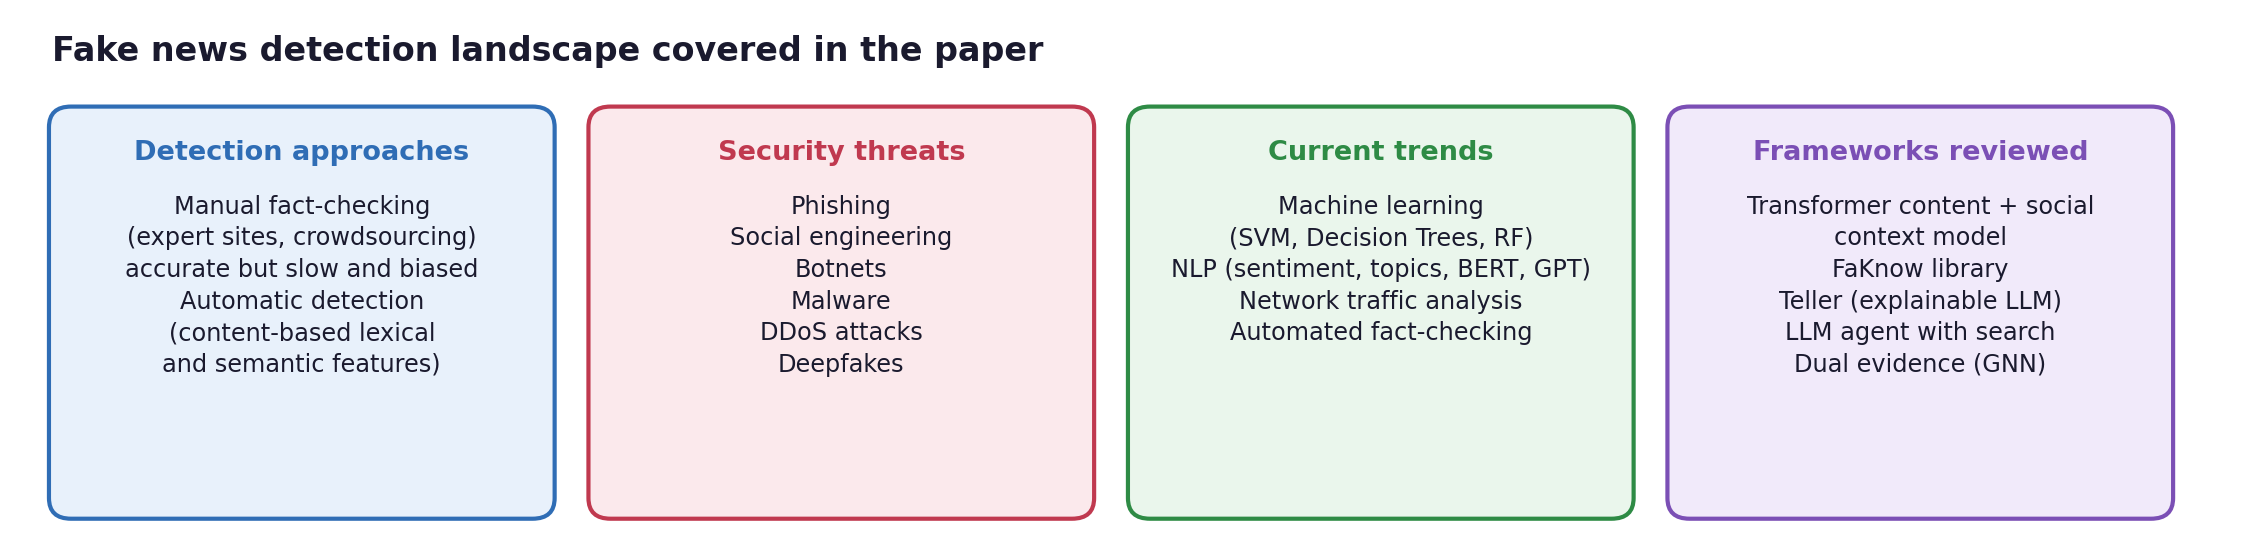
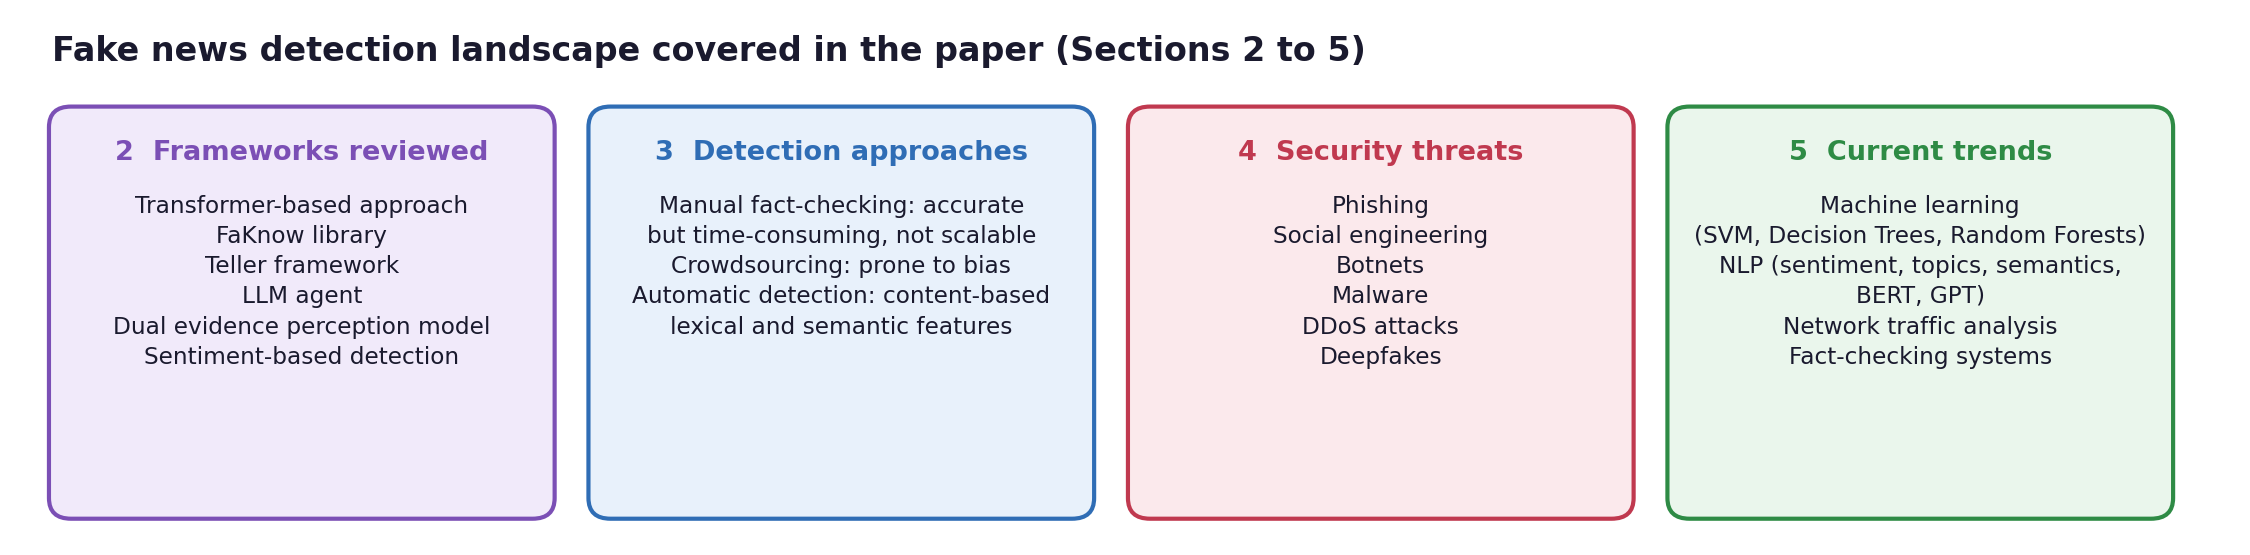
Align README and diagrams strictly with the paper (Table I, Table II, section references)

diff --git a/README.md b/README.md
@@ -21,41 +21,47 @@ Advanced Topics in Computational Text and Media Science (NLP Seminar) · Univers
 
 ## Overview
 
-False information spreads faster than it can be checked, and it harms both social trust and cybersecurity. This
-paper reviews how fake news detection has developed, from manual fact-checking to transformer models and
-LLM agents that consult external knowledge. It also examines how cyber threats such as phishing, botnets and
-deepfakes are used to spread misinformation.
+The widespread dissemination of false news presents substantial difficulties to both social trust and
+cybersecurity (Abstract). This paper analyses current trends and methods in fake news identification, with an
+emphasis on automated systems that use machine learning and NLP. It investigates transformer-based models,
+domain-specific frameworks such as FaKnow, and LLM agents that combine external knowledge sources to improve
+detection accuracy. It also examines the limitations of manual fact-checking and the role of cyber threats such
+as phishing, botnets and deepfakes (Sections 2 to 5).
 
-Building on the review, the paper proposes a **propaganda-aware detection methodology**: a model trained on data
-enriched with propaganda techniques, supported by dedicated sub-models for emotional language and logical
-fallacies.
+Building on the review, the paper presents a methodology for a fake news detection model that **recognises
+propaganda strategies**, trained on a dataset enriched with AI-generated propaganda and supported by sub-models
+for emotion detection, fallacy recognition and translation bias identification (Section 6).
 
-> **Main finding:** combining machine learning, NLP and network analysis is the most promising way to fight the
-> spread of misinformation.
+> **Finding (Abstract, Conclusion):** combining machine learning, NLP and network analysis is a promising
+> approach to fighting the spread of misinformation.
 
 ## What the paper covers
 
 ![Landscape](assets/landscape.png)
 
-| Section | Content |
+| Paper section | Content |
 |---|---|
-| **Literature review** | Transformer-based detection with content and social context, the FaKnow library, the Teller framework, an LLM agent for fake news detection, classical ML comparisons, dual-evidence graph models and sentiment-aware detection |
-| **Detection approaches** | Manual fact-checking (expert websites, crowdsourcing) versus automatic content-based detection |
-| **Security threats** | Phishing, social engineering, botnets, malware, DDoS attacks and deepfakes as channels for misinformation |
-| **Current trends** | Machine learning classifiers, NLP methods (sentiment, topic modelling, BERT, GPT), network traffic analysis and automated fact-checking |
-| **Proposed method** | An end-to-end, propaganda-aware pipeline from problem definition to model refinement |
+| **2. Literature review** | Transformer-based detection with content and social context, the Teller framework, the FaKnow library, an LLM agent for fake news detection, a comparison of classical ML models, a dual evidence perception model and sentiment-based detection |
+| **3. Approaches** | Manual fact-checking (fact-checking websites, crowdsourcing) versus automatic content-based detection using lexical and semantic features |
+| **4. Security threats** | Phishing, social engineering, botnets, malware, DDoS attacks and deepfakes as ways misleading information is spread |
+| **5. Current trends** | Machine learning (SVM, Decision Trees, Random Forests), NLP (sentiment analysis, topic modelling, semantic analysis, BERT, GPT), network traffic analysis and automated fact-checking systems |
+| **6. Proposed method** | A six-stage pipeline from problem definition to model refinement (Figure 1) |
 
 ## Related work at a glance
 
-| Work | Approach | Key features | Data | Finding |
+Reproduced from Table I of the paper; reference numbers follow the paper's bibliography.
+
+| Work | Approach | Key features | Dataset | Findings |
 |---|---|---|---|---|
-| Raza & Ding (2022) | Transformer-based detection | Content and social context analysis | Online news datasets | Automated methods scale where manual fact-checking cannot |
-| **FaKnow** (Zhu et al., 2024) | Unified library | Many models and datasets on a PyTorch backend | Fake news benchmarks | Makes research faster and reproducible |
-| **Teller** (Liu et al., 2024) | Explainable, generalisable detection | Logic templates combined with LLMs | News datasets | Transparent, interpretable verdicts |
-| Prabha et al. (2024) | Classical ML comparison | Logistic Regression, Random Forest, Decision Tree | Benchmark datasets | Decision Tree most accurate; data quality is decisive |
-| Dual evidence perception | Graph neural networks + semantics | Structural and semantic evidence | News and social media data | Fixes methods that ignore semantic content |
-| Sentiment-based detection | Sentiment analysis | Emotional tone of content | ISOT, LIAR | Sentiment features raise accuracy |
-| **LLM agent** (Li et al., 2024) | LLM agent | Expert workflow, domain knowledge, web search | Snopes, PolitiFact, GossipCop | External search improves detection |
+| Transformer-based approach [14] | Transformer-based automated detection | Integrates social context and content analysis | Various online news datasets | Draws attention to the shortcomings of manual fact-checking and encourages the scalability of automated techniques |
+| FaKnow [15] | Unified library structure | Several models, datasets and a PyTorch backend | Various fake news datasets | Increases the efficiency and repeatability of fake news research |
+| Teller framework [9] | Explainable and generalisable detection | Logic templates and LLM integration | Various news datasets | Delivers clear and understandable detection results |
+| Comparative analysis (AIP) [13] | Machine learning models | Logistic regression, random forests, decision trees | Various benchmark datasets | Decision Tree classifier is the most accurate; highlights the importance of high-quality datasets |
+| Dual evidence perception model [14] | Graph neural networks and semantic analysis | Combines evidence from structure and semantics | News datasets, social media data | Addresses approaches that ignore semantic content |
+| Sentiment analysis-based detection [14] | Integration of sentiment analysis | Content-based identification and analysis of emotional tone | ISOT, LIAR | Sentiment analysis increases detection accuracy |
+| Content and social context-based detection [14] | Content and social context features | Social interaction and style features | Various news datasets | Highlights issues with flexibility and the need for reliable models |
+| Fact-checking and algorithm strategies [8] | Integration of fact-checking | Algorithmic strategies combined with fact-checking tasks | Various fact-checking datasets | Shows how advanced algorithms are integrated with fact-checking |
+| LLM agent [8] | Large language model agent | Structured expert workflow and domain knowledge | Snopes, PolitiFact, GossipCop | Increases detection accuracy through external search engines and subject expertise |
 
 ## Proposed methodology
 
@@ -72,13 +78,13 @@ The pipeline follows Figure 1 and Section 6 of the paper.
 | **5. Implementation and Testing** | Pilot testing and user feedback |
 | **6. Model Refinement** | Final stage, informed by pilot testing and user feedback |
 
-**Feature groups**
+**Feature types (Table II of the paper)**
 
-| Textual | Metadata | Social context | Graph-based |
+| Textual features | Metadata features | Social context features | Graph-based features |
 |---|---|---|---|
 | TF-IDF | Source reliability | User engagement metrics | Propagation graphs |
-| N-grams | Publishing date and time | User profile information | Network structure |
-| Sentiment | Author reputation | | Centrality measures |
+| N-grams | Publishing date and time | Network structure | Centrality measures |
+| Sentiment analysis | Author reputation | User profile information | |
 
 <details>
 <summary><b>Original methodology figure from the paper</b></summary>
@@ -88,16 +94,18 @@ The pipeline follows Figure 1 and Section 6 of the paper.
 
 ## Key takeaways
 
-1. **Manual fact-checking does not scale.** It is accurate but slow, costly and open to bias; crowdsourcing adds
-   inconsistency.
-2. **Transformers and LLMs lead current research.** Models such as BERT and GPT capture subtle linguistic cues,
-   and LLM agents improve accuracy by consulting external search engines.
-3. **Explainability is becoming a requirement.** Frameworks like Teller show why a claim is judged false, which
-   builds trust in automated systems.
-4. **Misinformation is also a security problem.** Botnets, phishing, malware and deepfakes are delivery channels,
-   so network and propagation analysis complements text analysis.
-5. **Propaganda techniques are a missing signal.** Modelling emotional manipulation and logical fallacies
-   explicitly is a promising direction for more robust detectors.
+1. **Manual fact-checking is accurate but does not scale** (Section 3.1). It is time-consuming and not scalable to
+   the volume of online content; crowdsourcing is prone to biases and differing levels of competence.
+2. **Transformer models and LLM agents advance detection** (Sections 2 and 5.2). BERT and GPT have shown
+   substantial success in interpreting language and identifying subtle signs of false news; an LLM agent improves
+   accuracy by using external search engines and domain knowledge.
+3. **Explainability builds trust** (Section 2). The Teller framework decomposes fact-checking with logic templates
+   and LLMs to produce transparent, interpretable results.
+4. **Misinformation is also a cybersecurity problem** (Sections 4 and 5.3). Phishing, social engineering, botnets,
+   malware, DDoS attacks and deepfakes help spread false information, and network analysis of propagation
+   patterns can reveal coordinated misinformation efforts.
+5. **Propaganda-aware detection is the proposed next step** (Abstract, Section 6). A model that recognises
+   propaganda strategies lays the groundwork for future developments in this field.
 
 ## Related project
 
